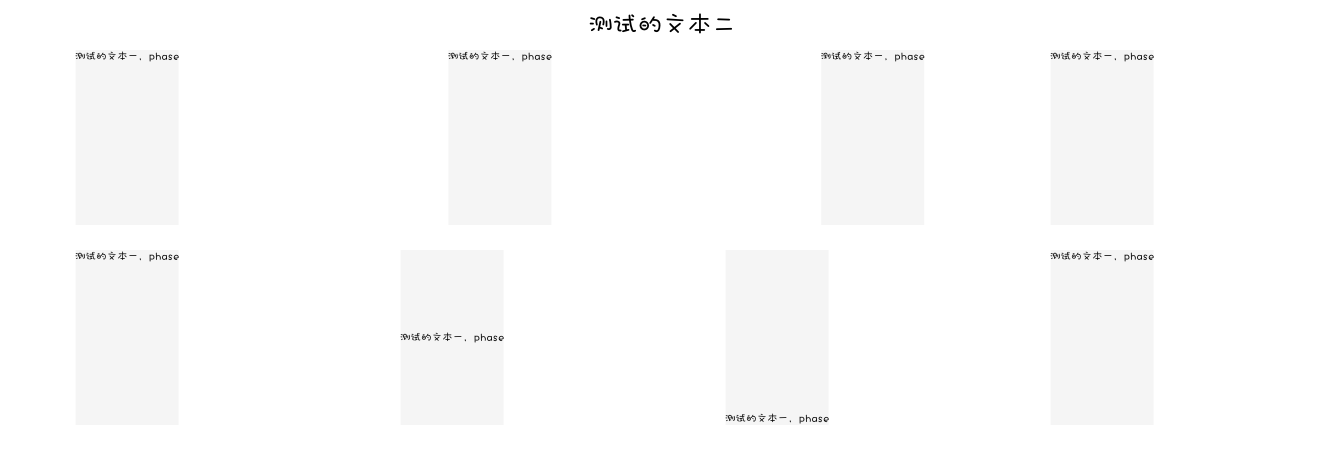
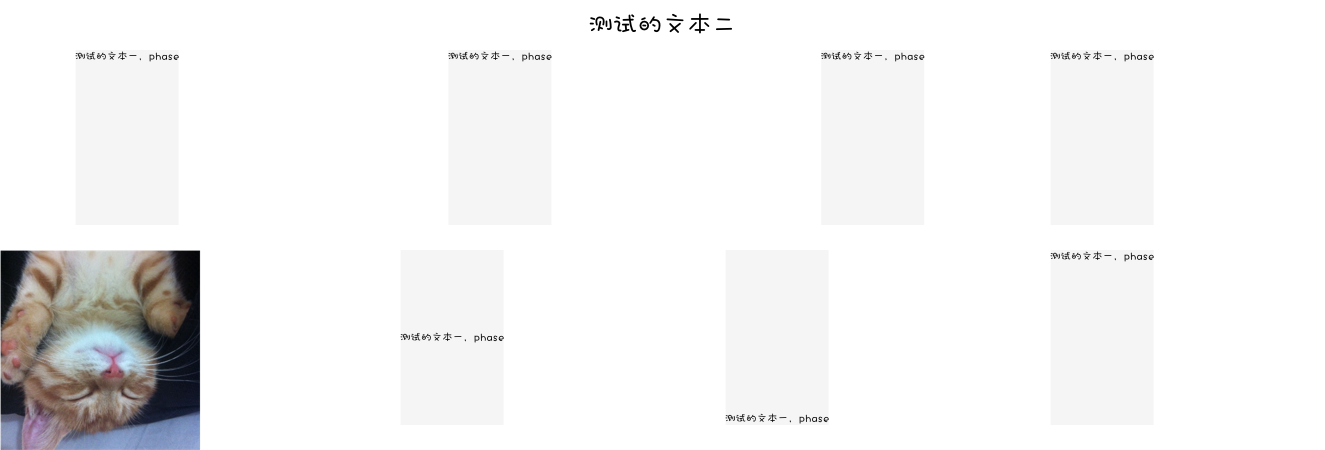
feat: test drawImage & loadJpg

Changed region(s): [[0.0, 0.5289, 0.1547, 1.0]]

diff --git a/src/main/main.go b/src/main/main.go
@@ -2,6 +2,8 @@ package main
 
 import (
 	"image/color"
+	"image/jpeg"
+	"os"
 
 	"github.com/tdewolff/canvas"
 )
@@ -38,6 +40,22 @@ func drawText(c *canvas.Context, x, y float64, halign, valign canvas.TextAlign, 
 	c.DrawText(x, y, text)
 }
 
+func drawImage(c *canvas.Context) {
+	head, err := os.Open("../static/head.jpeg")
+	if err != nil {
+		panic(err)
+	}
+
+	img, err := jpeg.Decode(head)
+	if err != nil {
+		panic(err)
+	}
+
+	// x, y float64, img image.Image, dpm float64
+	// Scale(1.0/dpm, 1.0/dpm)
+	c.DrawImage(0, 0, img, 1)
+}
+
 func draw(c *canvas.Context) {
 	face := fontFamily.Face(14.0, color.Black, canvas.FontRegular, canvas.FontNormal)
 	c.SetFillColor(canvas.Black)
@@ -51,4 +69,7 @@ func draw(c *canvas.Context) {
 	drawText(c, 70.0, 40.0, canvas.Left, canvas.Center, 10.0)
 	drawText(c, 135.0, 40.0, canvas.Left, canvas.Bottom, 10.0)
 	drawText(c, 200.0, 40.0, canvas.Left, canvas.Justify, 10.0)
+
+	// test drawImage
+	drawImage(c)
 }
